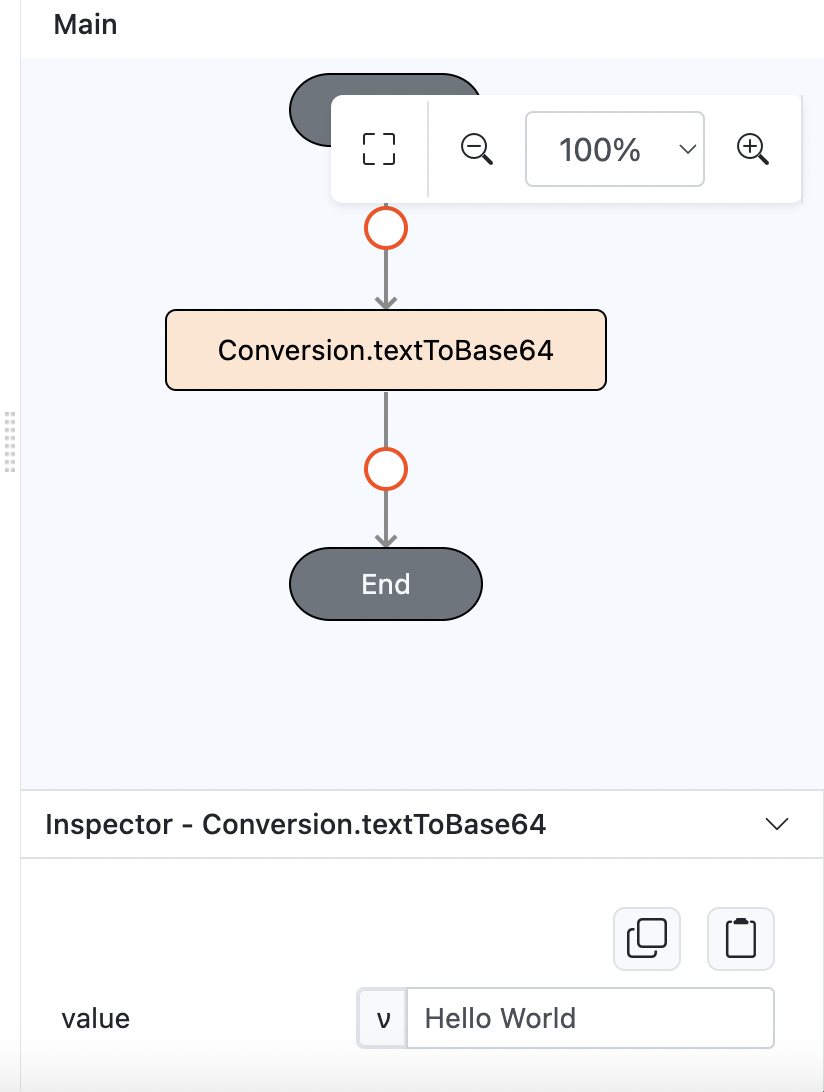
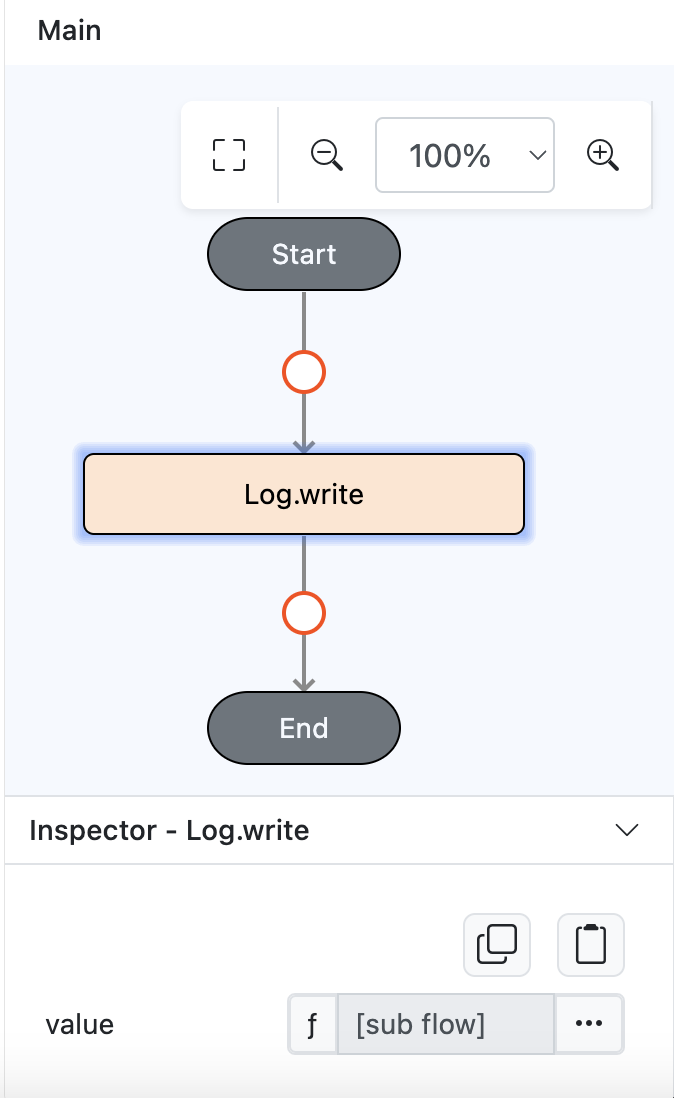
EP-1338-Added Log write step to show the result

diff --git a/document/client/006-actions-and-visual-logic/action-reference/react-native/Conversion/textToBase64/textToBase64.md b/document/client/006-actions-and-visual-logic/action-reference/react-native/Conversion/textToBase64/textToBase64.md
@@ -6,15 +6,19 @@ Converts text into a Base64 encoded string.
 
 ## Input / Parameter
 
-| Name  | Description                                             | Input Type | Default | Options | Required |
-| ----- | -------------------------------------------------------| ---------- | ------- | ------- | -------- |
-| value | The text to be converted to Base64.  | Text/List  | -       | -       | Yes      |
+| Name  | Description                                              | Input Type | Default | Options | Required |
+| ----- | -------------------------------------------------------  | ---------- | ------- | ------- | -------- |
+| value | The text to be converted to Base64.                      | Text/List  | -       | -       | Yes      |
 
 ## Output
 
 | Description                                   | Output Type |
 | --------------------------------------------- | ----------- |
-| Returns the base64.            | Text      |
+| Returns the base64.                           | Text        |
+
+## Example
+
+In this example, we will convert a string to base64 and print the result in the console.
 
 ### Steps
 
@@ -25,13 +29,25 @@ Converts text into a Base64 encoded string.
         style="width: 50%; padding: 5px;"/>
     </div>
 
-2. Select the event `press` for the button and drag the `Conversion.textToBase64` function to the event flow. Fill in the parameter with the text or list to be converted.
-
+2. Drag `Log.write` to event flow and put `Conversion.textToBase64` inside the function parameter.
+    
     <div style="display:flex; align-items:center; justify-content:center; background-color: #E7F1FF;">
         <img src="./textToBase64-step-2.png"
+        style="width: 50%; padding: 5px;"/>
+    </div>
+
+3. Drag the `Conversion.textToBase64` function to the `Log.write` event function. Fill in the parameter with the text or list to be converted.
+
+    <div style="display:flex; align-items:center; justify-content:center; background-color: #E7F1FF;">
+        <img src="./textToBase64-step-3.png"
         style="width: 100%; padding: 5px;"/>
     </div>
 
 ### Result
 
-1. Upon pressing the button, the text or list of texts will be converted to a Base64 encoded string.
+1. Upon pressing the button, the text will be converted to a Base64 encoded string.
+   
+    <div style="display:flex; align-items:center; justify-content:center; background-color: #E7F1FF;">
+        <img src="./textToBase64-result.png"
+        style="width: 100%; padding: 5px;"/>
+    </div>
